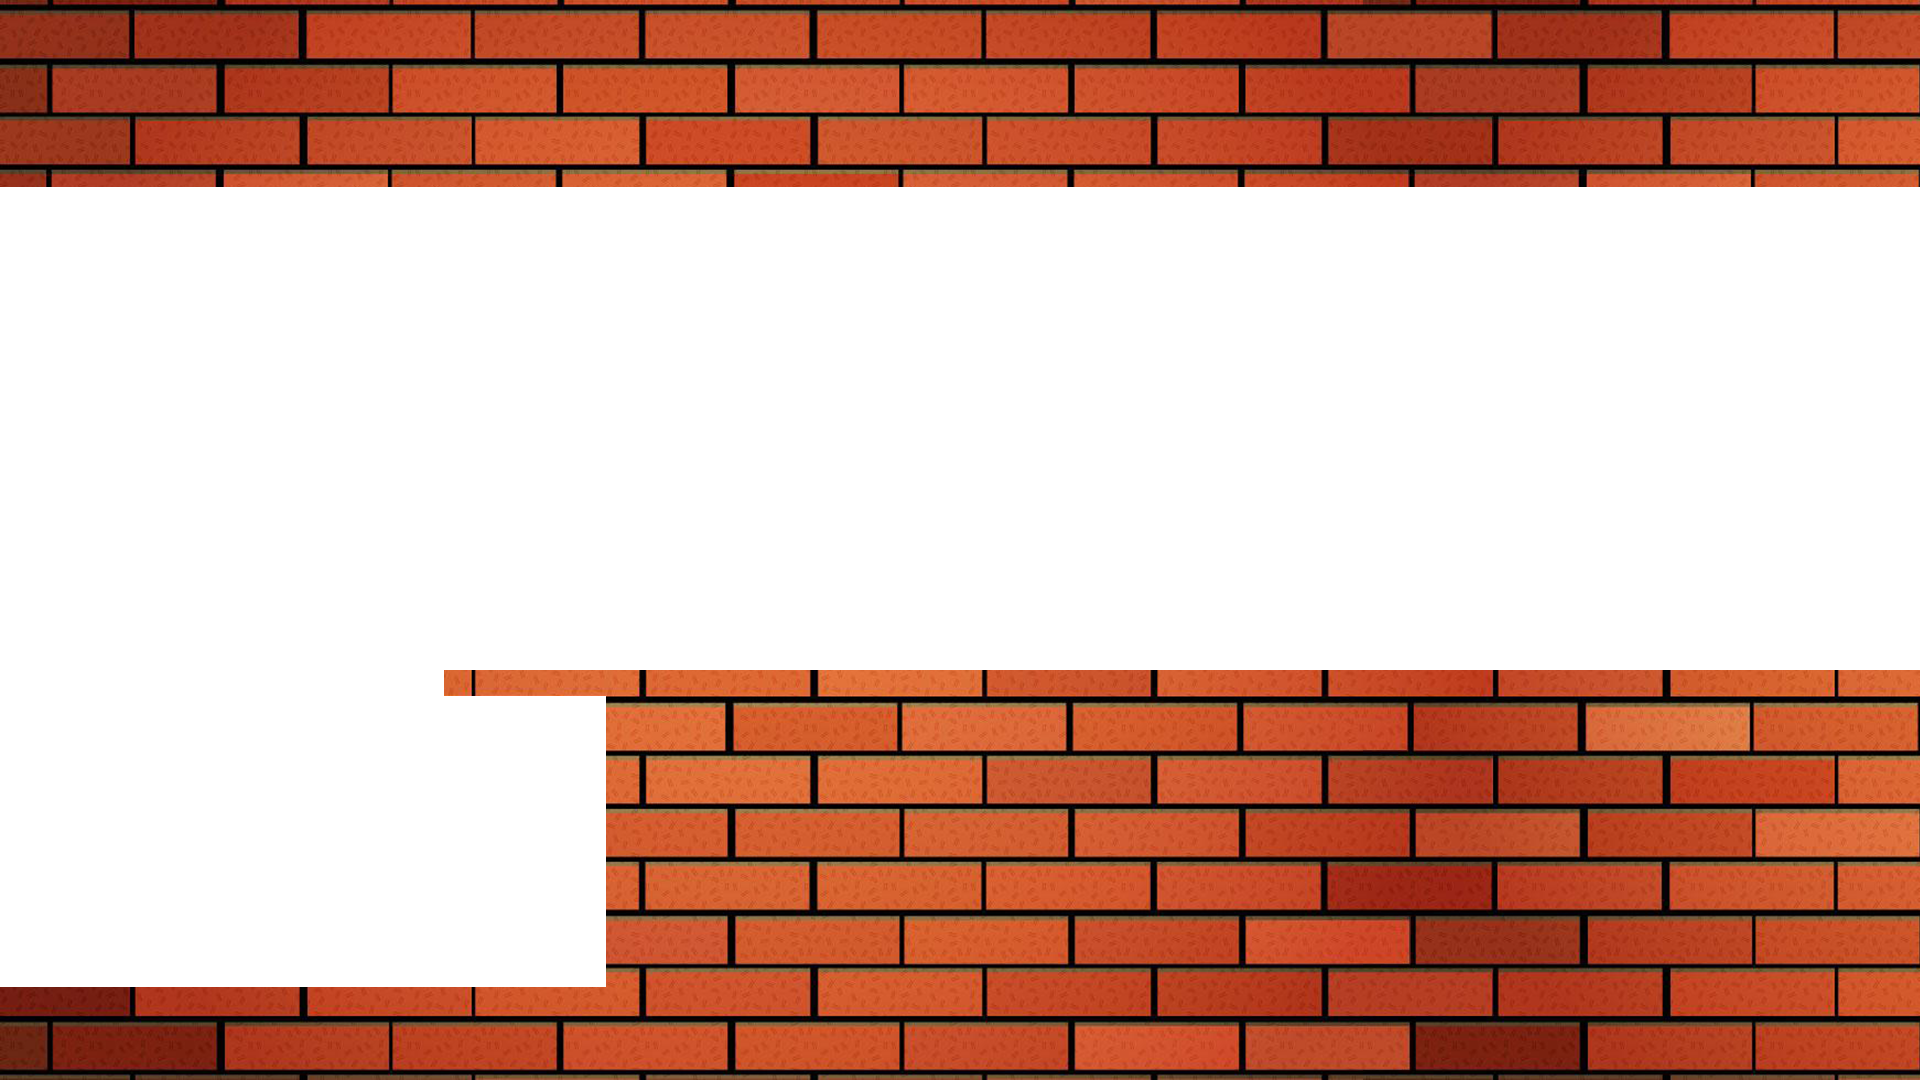
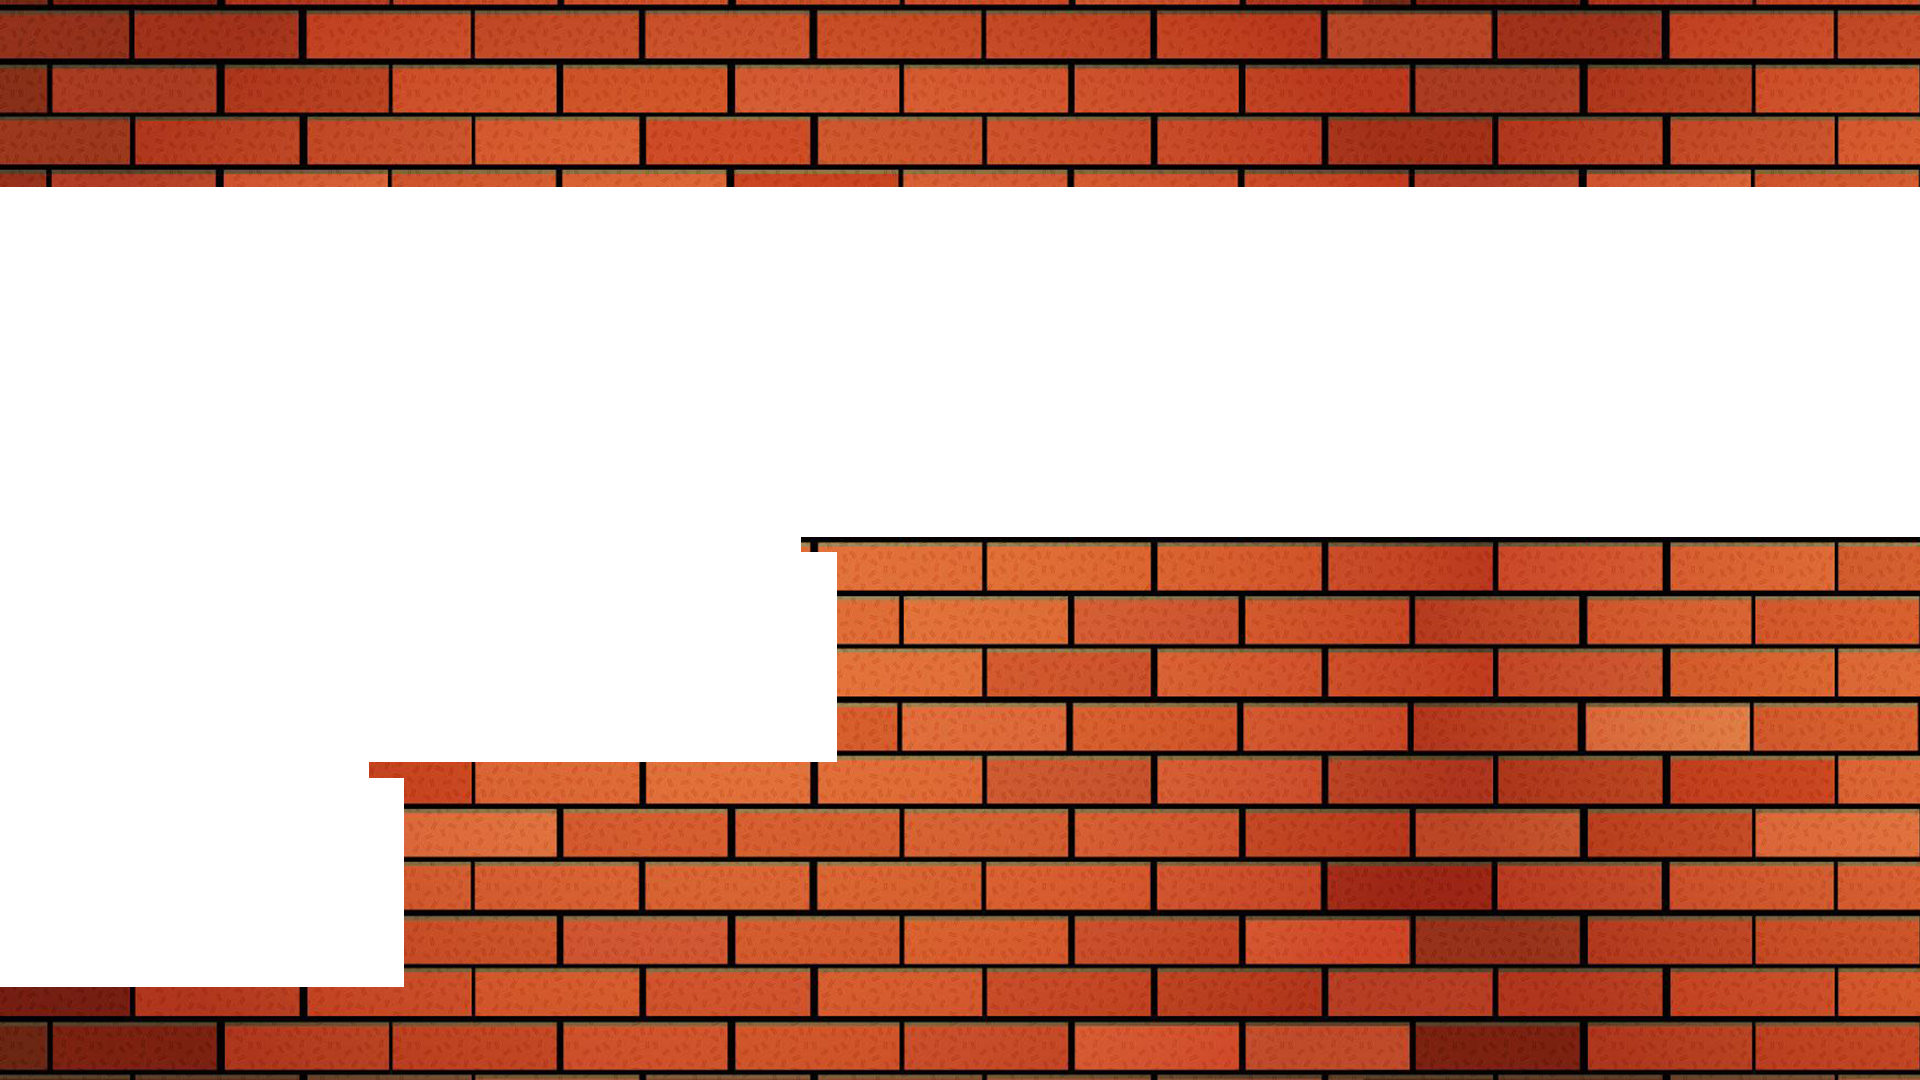
Updated background 3

Changed region(s): [[0.1875, 0.4889, 1.0, 0.9167]]

diff --git a/Movements/collisions.js b/Movements/collisions.js
@@ -9,7 +9,12 @@ climableArea = [
     },
   ],
   [],
-  []
+  [{
+    left: 0.192 * canvasWidth,
+    top: 0.705 * canvasHeight,
+    height: 0.208 * canvasHeight,
+    width: 0.1 * canvasWidth,
+  }]
 ];
 props = [
   [
@@ -20,6 +25,14 @@ props = [
       width: 0.1 * canvasWidth,
     },
   ],
+  [
+    {
+
+    }
+  ],
+  [
+    
+  ]
 ];
 ground = [
   [
@@ -73,13 +86,19 @@ ground = [
       left: 0,
       top: 0.912 * canvasHeight,
       height: 0.085 * canvasHeight,
-      width: 0.315 * canvasWidth,
+      width: 0.192 * canvasWidth,
     },
     {
-      left: 0.315 * canvasWidth,
-      top: 0.62 * canvasHeight,
-      height: 0.293 * canvasHeight,
-      width: 0.685 * canvasWidth,
+      left: 0.192 * canvasWidth,
+      top: 0.705 * canvasHeight,
+      height: 0.208 * canvasHeight,
+      width: 0.225 * canvasWidth,
+    },
+    {
+      left: 0.417 * canvasWidth,
+      top: 0.497 * canvasHeight,
+      height: 0.208 * canvasHeight,
+      width: 0.582 * canvasWidth,
     }
   ]
 ];

diff --git a/animation.js b/animation.js
@@ -58,7 +58,6 @@ function animate() {
 	}
 	
 
-
 	//enemy
 	animateEnemy();
 	
@@ -79,7 +78,7 @@ function animate() {
 
 	ctx.drawImage(backgrounds[screenNumber - 1], 0, 0, canvasWidth, canvasHeight);
 
-	if(!player.haveSword){
+	if(!player.haveSword && screenNumber==1){
 		ctx.drawImage(swordImage, 0, 0, 250, 1093, sword.left, sword.top, 18, 80);
 	}
 

diff --git a/Enemy/enemy.js b/Enemy/enemy.js
@@ -15,7 +15,12 @@ let enemyOnScreen = [
     isDirectionRight: false,
   },
   {
-    ishere: false
+    ishere: true,
+    x: 0.75 * canvasWidth,
+    y: 0.5 * canvasHeight,
+    health: 100,
+    isAttacking: false,
+    isDirectionRight: false,
   }
 ];
 
